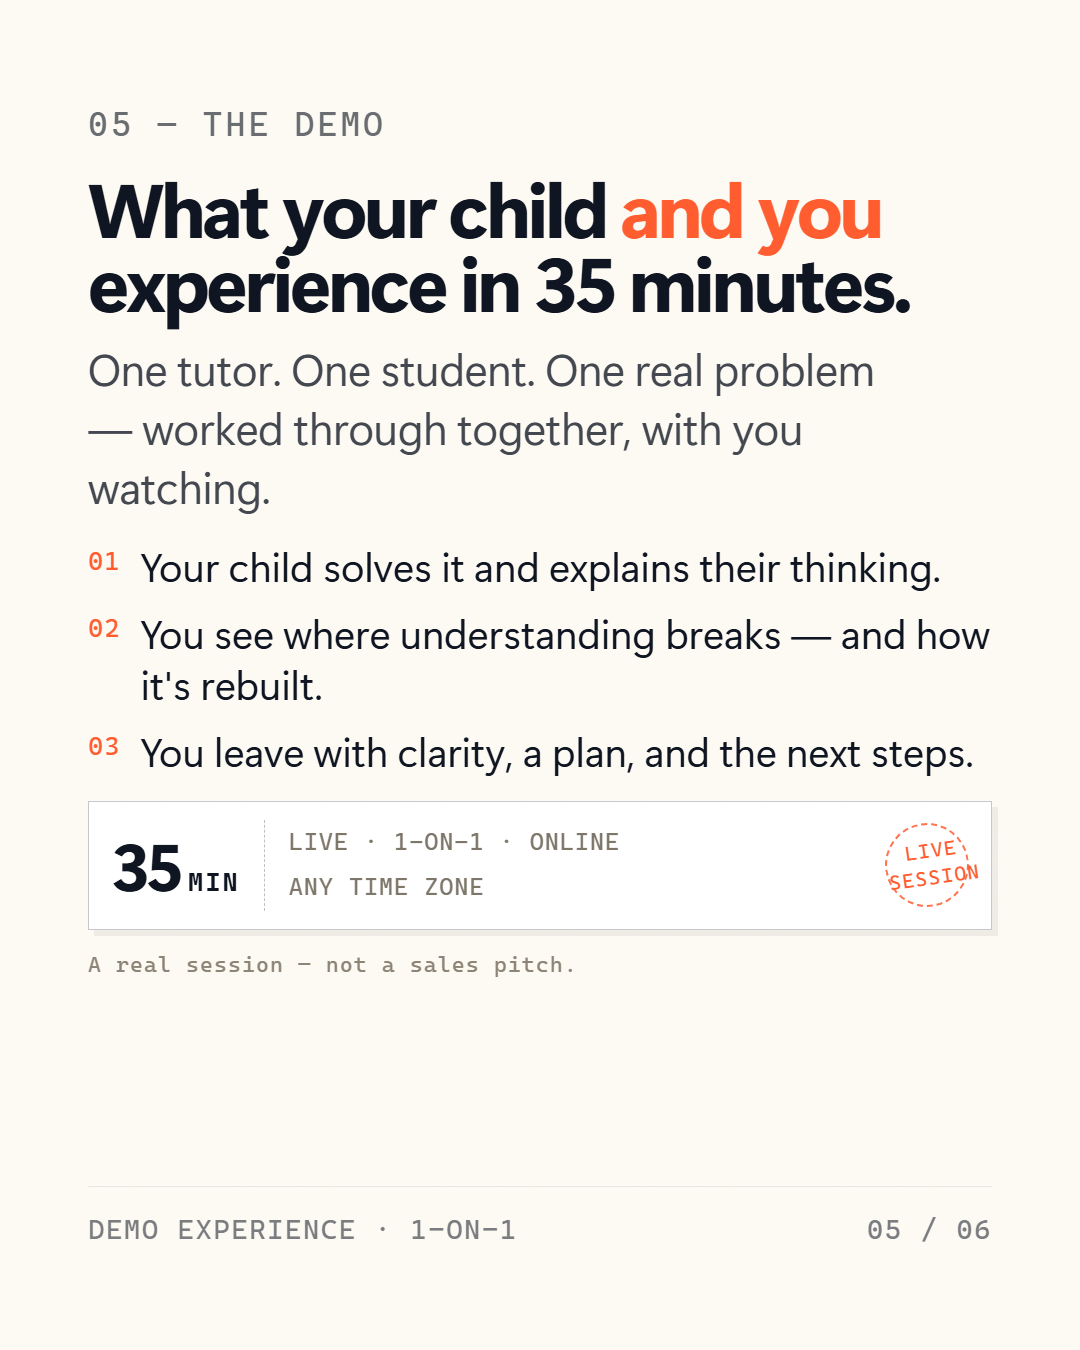
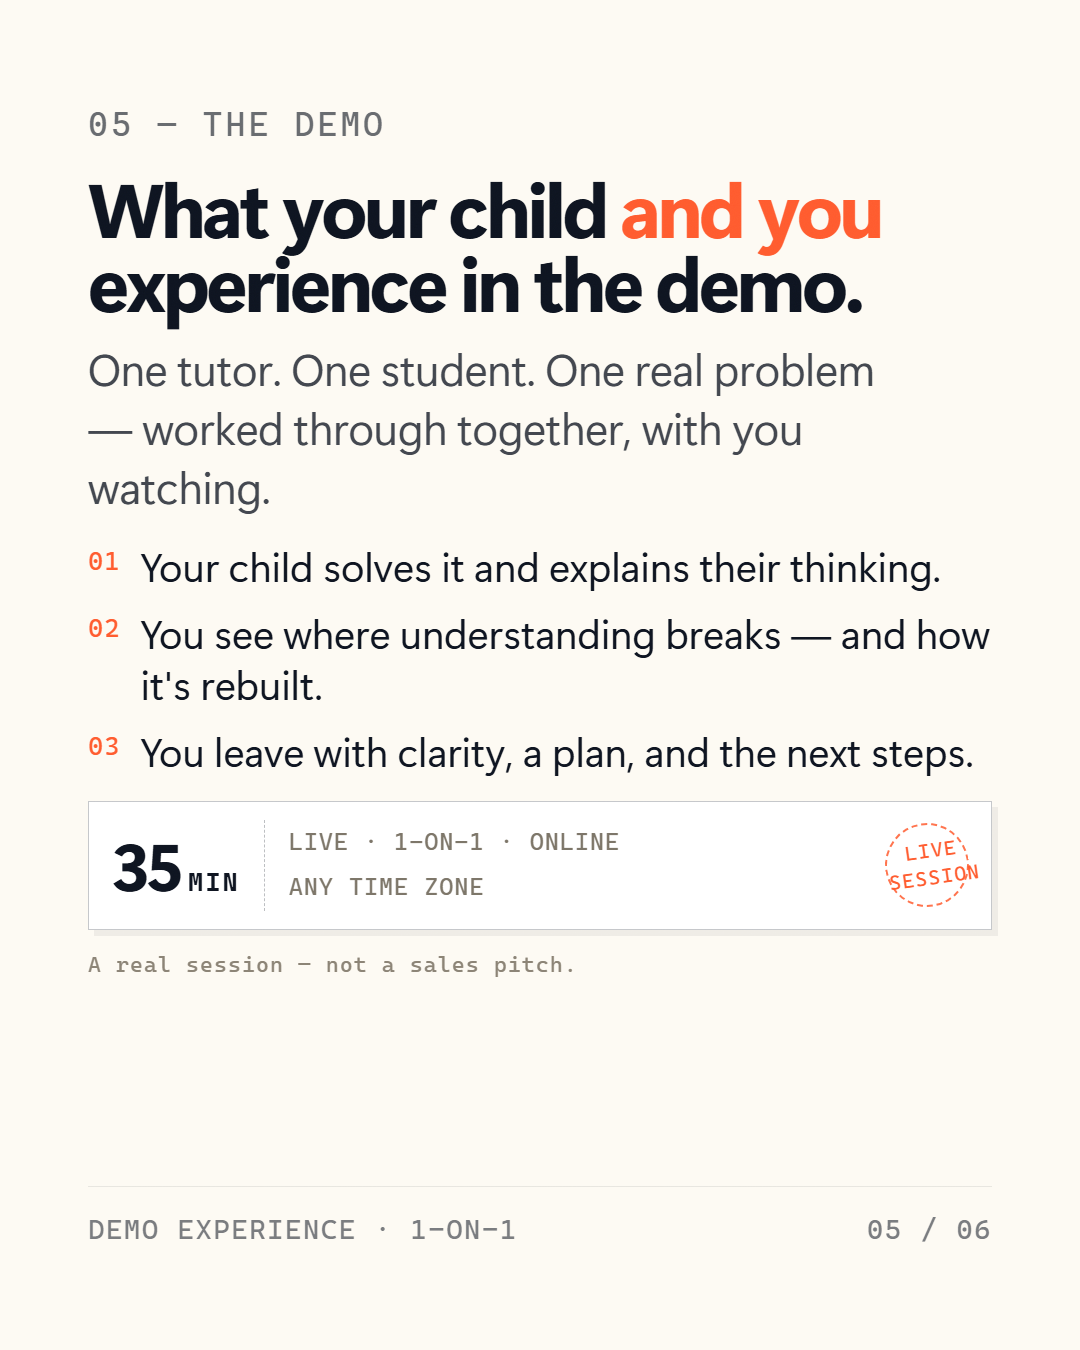
Remove repeated 35-min across S5/S6; keep duration only where it matters

Changed region(s): [[0.4889, 0.1867, 0.8556, 0.2489]]

diff --git a/nextgen-creative-kit-45.html b/nextgen-creative-kit-45.html
@@ -744,7 +744,7 @@
       <div style="transform:scale(.49)">
         <div class="slide sq light s5">
           <div class="kicker">05 — THE DEMO</div>
-          <div class="h1 sm">What your child <em>and you</em><br>experience in 35 minutes.</div>
+          <div class="h1 sm">What your child <em>and you</em><br>experience in the demo.</div>
           <div class="body">One tutor. One student. One real problem — worked through together, with you watching.</div>
           <ol>
             <li><span>01</span>Your child solves it and explains their thinking.</li>

diff --git a/nextgen-creative-kit-riyadh-45.html b/nextgen-creative-kit-riyadh-45.html
@@ -745,7 +745,7 @@
       <div style="transform:scale(.49)">
         <div class="slide sq light s5">
           <div class="kicker">05 — THE DEMO</div>
-          <div class="h1 sm">What your child <em>and you</em><br>experience in 35 minutes.</div>
+          <div class="h1 sm">What your child <em>and you</em><br>experience in the demo.</div>
           <div class="body">One tutor. One student. One real problem — worked through together, with you watching.</div>
           <ol>
             <li><span>01</span>Your child solves it and explains their thinking.</li>

diff --git a/nextgen-creative-kit-riyadh.html b/nextgen-creative-kit-riyadh.html
@@ -745,7 +745,7 @@
       <div style="transform:scale(.49)">
         <div class="slide sq light s5">
           <div class="kicker">05 — THE DEMO</div>
-          <div class="h1 sm">What your child <em>and you</em><br>experience in 35 minutes.</div>
+          <div class="h1 sm">What your child <em>and you</em><br>experience in the demo.</div>
           <div class="body">One tutor. One student. One real problem — worked through together, with you watching.</div>
           <ol>
             <li><span>01</span>Your child solves it and explains their thinking.</li>

diff --git a/nextgen-creative-kit.html b/nextgen-creative-kit.html
@@ -744,7 +744,7 @@
       <div style="transform:scale(.49)">
         <div class="slide sq light s5">
           <div class="kicker">05 — THE DEMO</div>
-          <div class="h1 sm">What your child <em>and you</em><br>experience in 35 minutes.</div>
+          <div class="h1 sm">What your child <em>and you</em><br>experience in the demo.</div>
           <div class="body">One tutor. One student. One real problem — worked through together, with you watching.</div>
           <ol>
             <li><span>01</span>Your child solves it and explains their thinking.</li>
